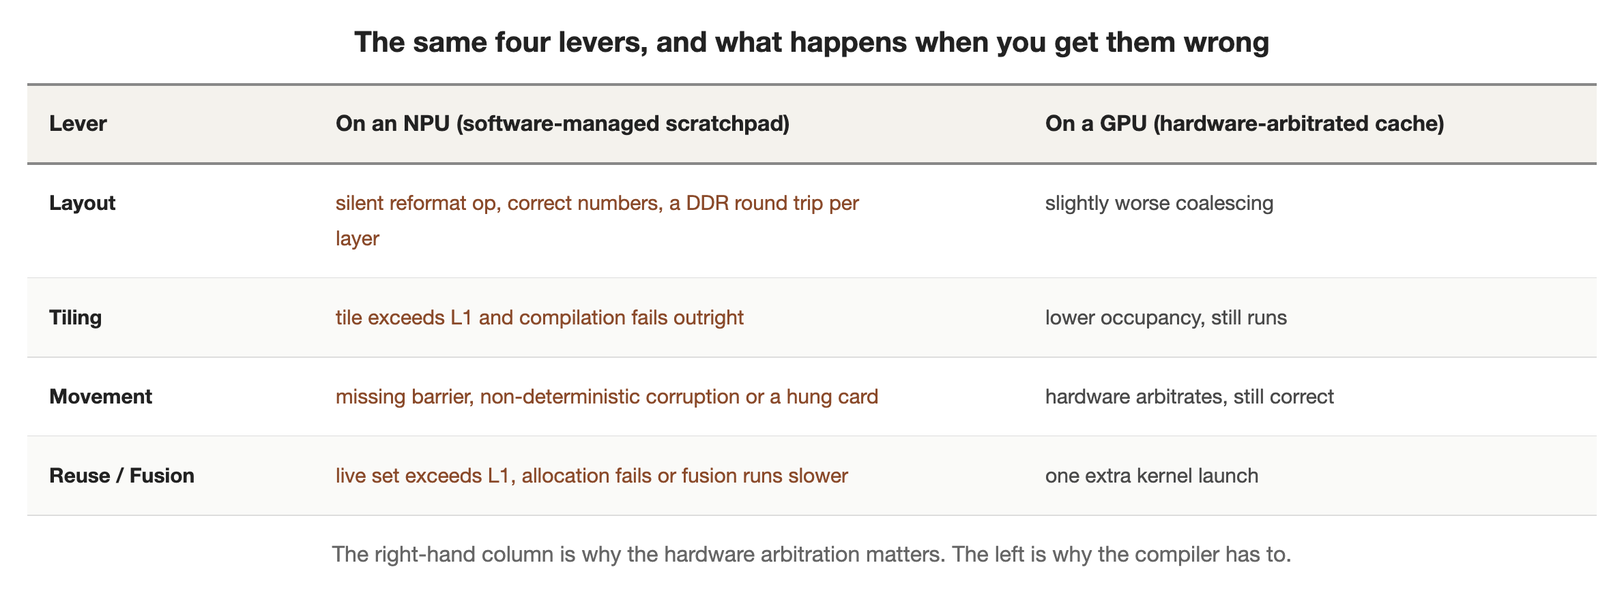
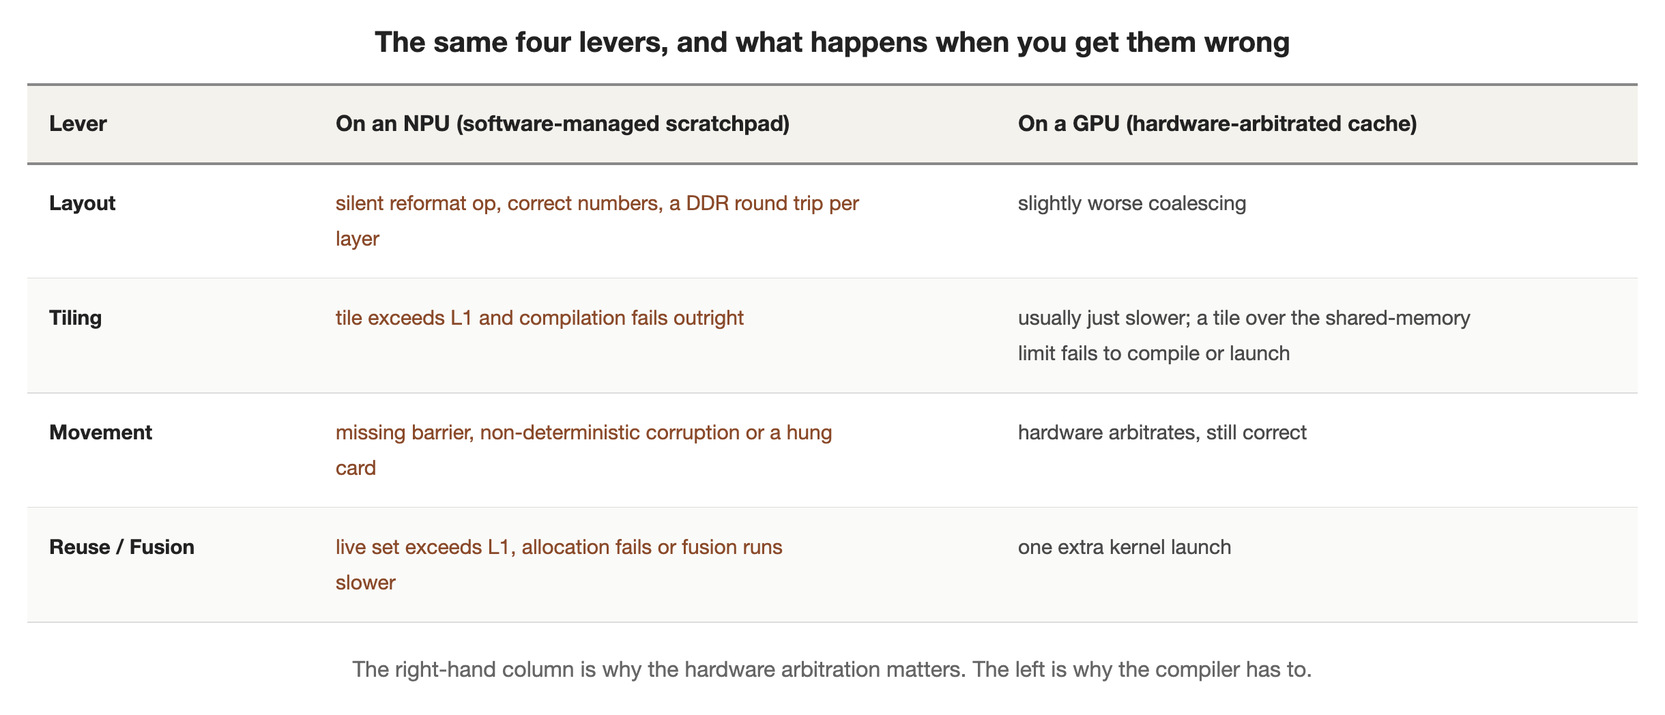
Fact-check pass: correct 22 borrowed numbers and vendor descriptions
An audit of every pre-existing claim found the article's own derivations intact
and its citations unreliable. The DaVinci Cube is a 16x16x16 engine, not a 16x16
array. The 640 pJ DRAM figure is a 32-bit access at 45 nm, not 64-bit. Ascend's
AIC and AIV are separate cores from 910B on, handing blocks through L2 rather
than a direct path. Recomputation is opt-in in PyTorch and Megatron, not on by
default. FlashAttention's fused traffic saving grows with block size rather than
falling as N/Bk. MTE pipe roles restored with FixPipe named as the cube's output
leg, and the Halide and TVM scheduling languages no longer described as
polyhedral.

diff --git a/_posts/2026-05-07-npu-compiler-memory-optimization.md b/_posts/2026-05-07-npu-compiler-memory-optimization.md
@@ -12,13 +12,13 @@ I've been building an NPU compiler stack lately, and this is my attempt to lay o
 
 *This is a translation of a piece originally published on Zhihu on May 7, 2026.*
 
-An NPU's hardware is far stricter about memory-access patterns than a CPU or GPU. The compute unit is a fixed-shape MAC array (16×16 or 128×128 are typical); the on-chip SRAM is a scratchpad, not a cache, so there is no hardware prefetch and no automatic replacement. Every data transfer has to be an explicit DMA instruction issued by the compiler, and on an NPU all of it has to be settled once, at compile time.
+An NPU's hardware is far stricter about memory-access patterns than a CPU or GPU. The compute unit is a fixed-shape MAC array (16×16 or 128×128 are typical); the on-chip SRAM is a scratchpad, not a cache, so there is no hardware prefetch and no automatic replacement. Every data transfer has to be an explicit DMA instruction issued by the compiler rather than inferred by hardware, and the schedule of those transfers is fixed before the kernel runs. At most its tile sizes and addresses are filled in at launch.
 
 The cost of data movement shows up on two axes at once.
 
 On the time axis: compute on modern accelerators keeps growing faster than bandwidth. Take an NVIDIA H100: about 1000 TFLOPS of FP16 compute against about 3 TB/s of HBM3 bandwidth. Work it through, and for every byte moved into the chip the hardware has to perform roughly 300 floating-point operations on it before the compute units stop idling. That ratio — arithmetic intensity, AI — is the basic metric for judging where an operator's bottleneck is. Most deep-learning operators have an AI far below 300; the time goes to waiting for data.
 
-On the energy axis: moving data costs far more than computing on it. On a mainstream process, reading a 64-bit word from DRAM is about 640 pJ, reading it from on-chip cache about 10 pJ, and an FP32 add about 0.4 pJ. A DRAM access costs more than 1000× the computation. Where an operator spends most of its energy is decided by its AI.
+On the energy axis: moving data costs far more than computing on it. On a 45 nm process, reading a 32-bit word from DRAM costs about 640 pJ, against roughly 10 pJ from an on-chip cache and 0.4 pJ for an FP32 add. The DRAM figure is Han et al.'s, and all of these are old numbers; modern LPDDR5 and HBM are several times cheaper per bit. What survives is the ratio, not the absolute values. A DRAM access costs more than 1000× the computation. Where an operator spends most of its energy is decided by its AI.
 
 Time and energy share one governing factor: the farther from the compute unit a bit has to travel, the longer it takes and the more it costs. All of an NPU compiler's memory-optimization work reduces to minimizing the time × energy product of data movement over the memory hierarchy the hardware gives you.
 
@@ -43,7 +43,7 @@ One example from each operator class.
 
 Shape (M, K) × (K, N) = (M, N); covers the QKV projections, the FFN, the embedding, and the MoE expert layers of a Transformer.
 
-The most basic layout choice is row-major versus column-major, corresponding to GEMM's NN / NT / TN / TT variants. What NPUs commonly do is pre-pack the matrices further into a block format. Take Ascend's FractalNZ: the weight matrix is cut into 16×16 blocks, stored row-wise inside each block, with the blocks arranged in a predefined two-dimensional order (zN or Nz). This arrangement means that when the Cube unit (a 16×16 MAC array) reads 16×16 values from L0B each cycle, it lands on exactly one contiguous physical block, and the address generator never has to stride.
+The most basic layout choice is row-major versus column-major, corresponding to GEMM's NN / NT / TN / TT variants. What NPUs commonly do is pre-pack the matrices further into a block format. Take Ascend's FractalNZ: the weight matrix is cut into 16×16 blocks, stored row-wise inside each block, with the blocks themselves walked column-major. That is what the name says: capital N across the blocks, lowercase z inside each one. FractalNZ is the form that sits in DDR and L1. L0B, the buffer holding the Cube's right-hand operand, holds a different member of the same family, FRACTAL_ZN, with the blocks walked the other way and transposed inside, and MTE1 re-packs one into the other on the way down from L1. Both are fractal, so when the Cube unit (a 16×16×16 engine, 4096 FP16 MACs per cycle) reads 16×16 values from L0B each cycle, it lands on exactly one contiguous physical block, and the address generator never has to stride.
 
 Weight packing is done at compile time; the model file at runtime already stores FractalNZ, and the DMA pours it straight into the scratchpad. Activations only get their sizes at runtime, so a compiler-inserted reformat operator has to pack them on the fly before each entry into the scratchpad.
 
@@ -51,7 +51,7 @@ Weight packing is done at compile time; the model file at runtime already stores
 
 Shape (N, C, H, W); covers vision models, the visual front end of diffusion models, and the image encoders of multimodal models.
 
-Consider a 16-lane MAC array that consumes the 16 channel values at one (h, w) position per cycle. With NHWC data, the 16 channels of pixel (h, w) are 16 contiguous elements; the MAC reads a contiguous run from one base address and has everything in one cycle. With NCHW, those 16 channels sit at 16 addresses spaced H×W elements apart: either 16 serial reads, cutting throughput to 1/16, or spreading across the SRAM's 16 banks — but a regular large stride usually lands every access in the same bank, and serialization is unavoidable.
+Consider a 16-lane MAC array that consumes the 16 channel values at one (h, w) position per cycle. With NHWC data, the 16 channels of pixel (h, w) are 16 contiguous elements; the MAC reads a contiguous run from one base address and has everything in one cycle. With NCHW, those 16 channels sit at 16 addresses spaced H×W elements apart: either 16 serial reads, cutting throughput to 1/16, or spreading across the SRAM's 16 banks. With plain low-order interleaving a stride of H×W words collapses onto 16/gcd(H·W, 16) banks: whenever H·W is a multiple of 16, as at 56×56 or 28×28, every access lands in the same bank and serializes 16 ways; at 14×14 it degrades to a 4-way conflict; at 7×7 the odd stride already spreads across all 16. The collapse is a property of the address mapping, not a law. Padding the plane pitch to an odd number of words, or XOR-swizzling the bank index, breaks it for the price of a little capacity or one more address-generation stage.
 
 ![The same tensor and the same MAC array. Only the byte order changed, and with it whether one cycle gets its sixteen values or sixteen.](/assets/images/posts/npu-compiler-memory-optimization/02-nhwc-vs-nchw.png)
 
@@ -76,7 +76,7 @@ An NPU's memory hierarchy typically runs: off-chip memory (GB), L1 (MB), L0A / L
 Tile size is set by four constraints together:
 
 1. **Capacity**: the tile's bytes must fit the target level. In GEMM, three tiles (A, B, C) coexist in scratchpad, so Bm·Bk + Bk·Bn + Bm·Bn ≤ L1 capacity.
-2. **Hardware granularity**: the tile's size along the MAC array's dimensions must be a multiple of the array edge. On a 16×16 Cube, the M, N, and K dimensions of a tile should all be multiples of 16.
+2. **Hardware granularity**: the tile's size along the MAC array's dimensions must be a multiple of the array edge. On a 16×16×16 Cube, the M, N, and K dimensions of a tile should all be multiples of 16.
 3. **DMA efficiency**: too small a tile makes DMA overhead exceed the transfer itself. Each DMA descriptor has tens to hundreds of cycles of issue latency, so a tile should move at least KB-scale data per DMA to amortize it.
 4. **Pipeline overlap**: the tile also has to work with double buffering; when L1 is split in half, the usable capacity halves, and tile size is squeezed further.
 
@@ -90,7 +90,7 @@ Again, one from each class.
 
 (M, K) × (K, N) → (M, N), with M = K = N = 4096, FP16, 96 MB of data in total. L1 is 1 MB, L0 is 64 KB.
 
-At the L1 level take (Bm, Bn, Bk) = (256, 256, 256); the three tiles use about 384 KB, leaving room for a double buffer. At L0 cut further to (16, 16, 16) to feed the Cube. The whole GEMM decomposes into (M/Bm) × (N/Bn) × (K/Bk) outer L1-tile iterations, each containing (Bm/16) × (Bn/16) × (Bk/16) Cube invocations.
+At the L1 level take (Bm, Bn, Bk) = (256, 256, 256); the three tiles use about 384 KB, leaving room for a double buffer. At L0 the tile shrinks to a base block sized against the 64 KB L0A and L0B, on the order of 128×256 FP16, or half that when the buffers are ping-ponged. The Cube then consumes it 16×16×16 at a time. The whole GEMM decomposes into (M/Bm) × (N/Bn) × (K/Bk) outer L1-tile iterations, each containing (Bm/16) × (Bn/16) × (Bk/16) Cube invocations.
 
 K is the reduction dimension and is handled differently from the parallel ones. Each K-tile's partial sum has to be accumulated. NPUs usually keep the accumulator in L0C and accumulate K-tiles there in place, writing the result out to L1 only once all accumulation is done. This is the Output Stationary idea (more on it in the reuse section) showing up in tiling: the innermost loop of the tile pins the output location and accumulates along K.
 
@@ -108,17 +108,17 @@ Take FlashAttention. The full attention matrix S = Q×K^T has shape (B, H, Sq, S
 
 FlashAttention cuts Sq into blocks of Bq (typically 64 or 128) and Sk into blocks of Bk (typically the same). Each (Bq, Bk) sub-block computes a partial attention independently: Q_block × K_block^T for a small block of scores, a local softmax, then multiply by V_block for a partial output. Softmax across blocks needs rescaling, so FlashAttention introduces the online-softmax algorithm to let the results from multiple K-tiles merge incrementally, without materializing the full S first.
 
-Landing this tiling on an NPU has extra requirements: Bq × D and Bk × D must fit in L1 together, with room for double buffering, and the softmax's running statistics (per-row max and sum) need their own accumulator space. Ascend and similar chips provide a dedicated vector-unit path for this, running softmax and accumulation in parallel with the Cube.
+Landing this tiling on an NPU has extra requirements. Four D-wide blocks are live at once: Q at Bq × D, K and V at Bk × D each, and the O accumulator at Bq × D. On top of them sits the Bq × Bk score tile, which at Bq = Bk = D = 128 is as big as the Q block and is usually kept in fp32. They need not all sit in the same buffer: on a typical NPU Q, K and V live in L1 while the scores accumulate in the matrix unit's output buffer and softmax runs in the vector core's working memory. Every one of them is scratchpad you allocate by hand, on top of double buffering and the softmax's running statistics (per-row max and sum). Ascend gives softmax its own hardware: matrix work runs on the AI Cube cores, softmax and rescaling on the separate AI Vector cores, and the two overlap. What it does not give you is a direct path between them. On 910A the cube and vector units inside one core had a direct channel; from 910B onward AIC and AIV are separate cores that hand blocks to each other through L2 and global memory. The pipelining is real, but you pay a cross-core handoff per block, and the design problem is sizing the block so that handoff stays hidden behind the Cube.
 
 ### The compiler's view
 
 Tile-size search is usually its own pass in an NPU compiler. Input: the compute graph with layouts already assigned, plus a hardware description (capacity per level, MAC size, DMA parameters). Output: the concrete tile shape for each operator at each level.
 
-There are two implementation styles. One is analytic solving on a cost model: list all the constraint equations, take compute × bandwidth utilization as the objective, and solve by integer programming or exhaustive search. That works on regular operators (GEMM, Conv), where the constraints have a closed form. The other is profile-driven autotuning: candidate tile sizes are timed on real hardware and iterated toward the optimum. TVM's auto-scheduler, Triton's autotune, and Huawei CANN's tiling search all belong here.
+There are two implementation styles. One is analytic solving on a cost model: list all the constraint equations, take compute × bandwidth utilization as the objective, and solve by integer programming or exhaustive search. That works on regular operators (GEMM, Conv), where the constraints have a closed form. The other is profile-driven autotuning: candidate tile sizes are timed on real hardware and iterated toward the optimum. TVM's auto-scheduler, Triton's `@triton.autotune`, and Huawei CANN's AOE tuner all belong here, though how much search each does differs sharply: Ansor runs evolutionary search over a learned cost model that every measured batch retrains, while `@triton.autotune` times a config list you wrote by hand, once per new key shape, and caches the winner.
 
 Tiling fails loudly, and only because somebody wrote the check. Upstream mostly has not. `linalg::promoteSubViews`, the pass that stages a tile into a named memory space, ends its precondition list with `// TODO: Check that the total footprint fits within a given size.` The affine copy generator does carry a budget, and it is instructive about what carrying one gets you: when the buffers exceed `fastMemCapacityBytes` it calls `emitWarning`, returns success, and emits the overflowing code anyway. On a cache that is survivable. On a scratchpad there is no backstop underneath it, so the check that matters is the one you write yourself.
 
-On a GPU, a wrong tile choice usually shows up as lower performance; the run still completes. On an NPU, a tile exceeding L1 capacity fails compilation outright, and a tile violating the MAC divisibility constraint means the Cube won't start. Tiling, like layout, is the textbook case of something going from optimization to precondition.
+On a GPU, most wrong tile choices only cost performance: registers spill to local memory, a tile too big for L1 just pulls more traffic from L2 and HBM, and the run still finishes. Shared memory is the exception. Nothing backstops it, so a tile that overflows the per-block limit is rejected by ptxas or fails at launch. That exception is the point: on an NPU the on-chip buffers are software-managed all the way down, so what is one special case on the GPU is the rule at every level. On an NPU, a tile exceeding L1 capacity fails compilation outright, and a tile violating the MAC divisibility constraint means the Cube won't start. Tiling, like layout, is the textbook case of something going from optimization to precondition.
 
 ## 3. Movement
 
@@ -150,13 +150,13 @@ Software pipelining on an NPU isn't implicit. On CPUs and GPUs the compiler lean
 
 ### Multiple DMA engines in parallel
 
-NPUs usually have several independent DMA paths, each dedicated to a different leg of the route. On Ascend these are the MTE (Memory Transfer Engine) pipes, split by direction: one brings data from off-chip memory into the on-chip buffers, another stages it from L1 down into the L0 operand buffers, and another writes results back out. The engines are physically independent and can work simultaneously.
+NPUs usually have several independent DMA paths, each dedicated to a different leg of the route. On Ascend these are the MTE (Memory Transfer Engine) pipes, split by direction: MTE2 brings data from off-chip memory into the on-chip buffers, MTE1 stages it from L1 down into the L0 operand buffers, and MTE3 writes vector results back out to memory. The cube's own output leg is not an MTE. FixPipe drains the L0C accumulator to L1 or GM, converting dtype and format on the way. The engines are physically independent and can work simultaneously.
 
 That hardware structure makes multi-level pipelining possible. While one tile sits in L0 being consumed by the Cube, the next tile moves from L1 into L0, the one after that moves from off-chip memory into L1, and the previous round's output drains out of the accumulator. Each leg is a different engine, so none of them waits on another.
 
 ![Four tiles in flight at once, each on its own engine. The compiler has to emit one instruction stream per engine and every barrier between them.](/assets/images/posts/npu-compiler-memory-optimization/06-mte-pipeline.png) Every segment of the pipeline has its own transfer hardware; none blocks another.
 
-The price is that the compiler has to generate a separate instruction stream for each engine and make sure the cross-engine dependencies are expressed correctly through synchronization primitives. In Ascend's ISA, MTE instructions and Cube instructions belong to different pipes, and pipes synchronize through barriers.
+The price is that the compiler has to generate a separate instruction stream for each engine and make sure the cross-engine dependencies are expressed correctly through synchronization primitives. In Ascend's ISA, MTE instructions and Cube instructions are issued to separate instruction queues, so the dependency between them has to be stated explicitly. `PipeBarrier<pipe>` only orders a queue against itself. Crossing from MTE1 to Cube means either a matched `SetFlag`/`WaitFlag` pair on the same hard event (`HardEvent::MTE1_M`, identical template parameter and identical event ID on both sides), or the blunt `PipeBarrier<PIPE_ALL>`, which drains every pipe and throws away the overlap you were buying. Most operator code never writes either by hand, since `TQue`'s `EnQue`/`DeQue` lowers to the same hard events, but get it wrong and the Cube array starts multiplying a half-written L0 buffer.
 
 ### Asynchronous DMA and prefetch
 
@@ -172,13 +172,13 @@ Movement isn't an independent optimization layer; its feasibility is entirely de
 - Four-stage software pipelining needs four copies: the budget drops to a quarter.
 - The deeper the pipeline, the higher the hardware concurrency, but the tighter the limit on tile size. Too small a tile and the DMA issue overhead exceeds the transfer, and the pipeline can't hide it either.
 
-There's an optimal band for tile size: too small and DMA issue overhead dominates; too large and the pipeline is too shallow to use the hardware's concurrency. The band is usually between KB and tens of KB, set jointly by DMA issue latency, bandwidth, and compute density.
+There's an optimal band for tile size: too small and DMA issue overhead dominates; too large and the pipeline is too shallow to use the hardware's concurrency. The band depends on which level the tile lands in. A tile staged into L0 or registers runs from KB to tens of KB; an L1 tile, like the 128 KB operands of the GEMM example above, runs to hundreds of KB. Either way the bounds are set jointly by DMA issue latency, bandwidth, compute density, and how many buffer copies the pipeline depth demands.
 
 ### The compiler's view
 
 In an NPU compiler, movement optimization shows up as instruction scheduling. Input: the operator compute graph with layout and tiling done. Output: an instruction sequence with pipe assignments and sync instructions.
 
-The scheduling algorithm is typically list scheduling or modulo scheduling. The former greedily schedules instructions one by one in dependency order — simple, not necessarily optimal. The latter targets loop structures, unrolling the loop into software-pipelined form and solving for the minimum initiation interval (II); on regular operators it can approach the hardware's concurrency ceiling.
+The scheduling algorithm is typically list scheduling or modulo scheduling. The former greedily schedules instructions one by one in dependency order — simple, not necessarily optimal. The latter targets loop structures: it overlaps successive iterations by starting a new one every II cycles, leaving a prologue, a steady-state kernel, and an epilogue, and it searches for the smallest feasible initiation interval (II), starting from the lower bound max(ResMII, RecMII) and raising it until a schedule fits. On regular operators it can approach the hardware's concurrency ceiling.
 
 Get movement wrong and nothing tells you either. One missing barrier between a transfer pipe and the compute pipe hands the array a half-written buffer: wrong numbers, non-deterministically, passing at test shapes and failing at production ones. A lost wakeup hangs the card instead. Upstream supplies more mechanism here than its reputation suggests. `transform.loop.pipeline` ships a target-independent modulo scheduler that assigns cycles by dependence and wraps them modulo the II, and it composes with `memref::multiBuffer` for the buffer expansion. What it does not ship is a latency model. The long latency is attached to vector transfers, a copy op is invisible to it, and `memref.dma_start` is created by the affine lowering and consumed by nothing downstream. The skew is free. Every cycle count and every wait is yours.
 
@@ -188,7 +188,7 @@ A GPU compiler leans on hardware out-of-order execution to hide most scheduling 
 
 Everything so far has been about moving data faster. Reuse is the other direction: how much work can one byte do once it's on-chip?
 
-The metric is arithmetic intensity (AI), defined as the operator's total floating-point operations divided by the bytes read from the next level up. As noted at the start, the H100's roofline knee is around 300; an operator with an AI below that is bandwidth-bound, and only above it can the compute units saturate. The numbers differ on an NPU; the structure is the same.
+The metric is arithmetic intensity (AI), defined as the operator's total floating-point operations divided by the bytes it moves to and from the next level up, reads and writes both. As noted at the start, the H100's roofline knee is around 300; an operator with an AI below that is bandwidth-bound, and only above it can the compute units saturate. The numbers differ on an NPU; the structure is the same.
 
 There are three basic ways to raise AI: operator fusion so intermediates never touch DDR, loop reordering so data is reused across the innermost loop, and recomputation to trade compute for memory.
 
@@ -209,7 +209,7 @@ Fusion boundaries are set by analysis of the compute graph. Typical fusible patt
 
 Typically not fusible: a shape change between operators (a reshape crossing the reduction dimension), a control-flow fork (the output consumed by several downstream operators at different times), or a device boundary (the tensor sharded across multiple NPUs).
 
-FlashAttention is the landmark example of fusion. Plain attention consists of Q×K^T, scale, softmax, and ×V; the naive implementation writes out the full intermediate S from Q×K^T (128 MB at 8K×8K, as computed in the previous section) and reads it back. FlashAttention fuses the whole sequence inside the tile loop: each (Bq, Bk) sub-block's partial score is softmax-localized as soon as it's computed, multiplied by V, and accumulated into the output — S never materializes. AI rises by more than an order of magnitude, and DDR traffic falls by a factor of N/Bk.
+FlashAttention is the landmark example of fusion. Plain attention consists of Q×K^T, scale, softmax, and ×V; the naive implementation writes out the full intermediate S from Q×K^T (128 MB at 8K×8K, as computed in the previous section) and reads it back. FlashAttention fuses the whole sequence inside the tile loop: each (Bq, Bk) sub-block's partial score is softmax-localized as soon as it's computed, multiplied by V, and accumulated into the output — S never materializes. AI rises by more than an order of magnitude, and the Sq × Sk round trip of the S matrix disappears entirely. What remains is the traffic of Q, K, V and O, each of them Sq × D or Sk × D, multiplied by the number of passes the tiling forces over K and V. Larger Bq and Bk mean fewer passes and less traffic: the saving grows with block size, not with 1/Bk.
 
 ### Loop reordering
 
@@ -231,9 +231,9 @@ Recomputation (also called gradient checkpointing) is the reverse move: don't sa
 
 Backpropagation in training needs the forward pass's intermediate activations to compute gradients. A standard 7B Transformer at sequence length 4096 and batch 1 has activations totaling on the order of ten GB; longer sequences or bigger batches quickly exceed a single card's memory. Saving everything means enormous volumes of data read and written repeatedly on HBM.
 
-Recomputation saves only the activation at each layer's entry, and on the backward pass re-runs the forward from that entry to regenerate the intermediates. The cost is doing the forward twice (once forward, once again during backward); the gain is activation memory down by one to two orders of magnitude.
+Full recomputation saves only the activation at the entry of each checkpointed segment, usually one layer, and on the backward pass re-runs the forward from that entry to regenerate the intermediates. The cost is doing the forward twice (once forward, once again during backward); the gain is activation memory down by one to two orders of magnitude. Selective schemes trade part of that saving back for speed: Megatron keeps most of a layer's activations and recomputes only the core attention operations (QK^T, softmax, softmax dropout, attention over V), which are memory-heavy but cheap to redo, about 2.7% extra FLOPs against the 30% to 40% runtime overhead of full recomputation.
 
-Recomputation looks like the opposite of raising reuse, but it's the other pole of the same trade-off: when the cost of storage (moving data plus occupying capacity) exceeds the compute cost of regenerating it, discarding and recomputing is cheaper in total. In LLM training, where activations are enormous, almost every modern framework (PyTorch's checkpoint, Megatron's selective recomputation) has recomputation on by default.
+Recomputation looks like the opposite of raising reuse, but it's the other pole of the same trade-off: when the cost of storage (moving data plus occupying capacity) exceeds the compute cost of regenerating it, discarding and recomputing is cheaper in total. In LLM training, where activations are enormous, recomputation is a first-class option in every major framework: PyTorch's `torch.utils.checkpoint`, Megatron's `--recompute-activations` for the selective form and `--recompute-granularity full` for whole layers. None of them is on by default. You opt in, and large-model configs usually do. The recomputation that really is on by default sits a layer lower: torch.compile's min-cut partitioner re-derives cheap pointwise ops in the backward pass instead of saving them, and FlashAttention recomputes the attention matrix inside its backward kernel.
 
 ### Coupling with layout and tiling
 
@@ -249,11 +249,11 @@ Recomputation's relationship with tiling shows up in re-doing tiles on the backw
 
 Reuse optimization is done by two kinds of passes in an NPU compiler.
 
-The first is graph-level operator fusion. The compiler recognizes fusible patterns in the operator graph (element-wise chains, GEMM + epilogue, reduction + scale), merges several operators into a fused op, and the back end generates a single kernel for it. TVM's FuseOps, MLIR's linalg fusion, and Huawei CANN's fusion engine are all of this kind.
+The first is graph-level operator fusion. The compiler recognizes fusible patterns in the operator graph (element-wise chains, GEMM + epilogue, reduction + scale), merges several operators into a fused op, and the back end generates a single kernel for it. TVM's FuseOps and Huawei CANN's fusion engine are of this kind: FuseOps partitions a Relay dataflow DAG with a post-dominator tree, and CANN does graph fusion plus UB fusion during graph compilation. MLIR only half belongs here. `linalg-fuse-elementwise-ops` does merge ops at this level, composing an all-parallel `linalg.generic` producer into its consumer, but a producer that carries a reduction loop, a GEMM ahead of its epilogue or a reduction ahead of an element-wise op, is out of its scope. Those go through tile-and-fuse instead, which is the loop-level category below.
 
 Over-fusion is the failure with negative value. The fused chain's live set stops fitting L1, so either allocation fails outright or the compiler inserts reshuffles that cost more than the DDR round trip fusion was supposed to save. Nothing upstream stops you: the elementwise fusion pass's entire profitability policy is `producer->hasOneUse()`. The tile-and-fuse hook is better informed, since it sees the `tensor.extract_slice` and could compute a footprint from it, but the shipped default accepts every candidate. The passes that decide fusion have no model of a transfer at all, so the decision cannot see the byte budget it is spending.
 
-The second is loop-level schedule transformation. When generating the concrete kernel, the compiler reorders (interchange), merges (fuse), and blocks (tile — sharing the underlying mechanism with section 2) the operator's loop nest to produce the instruction sequence with the best stationarity. Polyhedral compilation is the theoretical foundation; TVM's schedule, Halide's schedule, and MLIR's affine dialect are all built on the polyhedral model.
+The second is loop-level schedule transformation. When generating the concrete kernel, the compiler reorders (interchange), merges (fuse), and blocks (tile — sharing the underlying mechanism with section 2) the operator's loop nest to produce the instruction sequence with the best stationarity. These systems do not share one theory. Halide, and the TVM schedule that descends from it, expose a scheduling language and infer bounds by interval analysis rather than through a polyhedral representation. MLIR's affine dialect borrows polyhedral techniques for dependence analysis, but its own rationale names MLIR's ability to represent arbitrary control flow as a key distinction from polyhedral implementations like Polly. From the outside the transformations look identical. What differs is how much each system can prove about them.
 
 A GPU compiler does both kinds of pass too, but on a GPU reuse optimization is more of a performance amplifier: skip fusion and it runs slowly, but it runs. On an NPU, fusion is often the precondition for running at all — an unfused kernel can fail compilation because an intermediate tensor exceeds L1 capacity. It's the same optimization-to-precondition phenomenon we saw with tiling and movement.
 
@@ -262,7 +262,7 @@ Read the four failures in order and they escalate: a silent performance tax, a c
 | Lever | On an NPU (software-managed scratchpad) | On a GPU (hardware-arbitrated cache) |
 | --- | --- | --- |
 | Layout | silent reformat op, correct numbers, a DDR round trip per layer | slightly worse coalescing |
-| Tiling | tile exceeds L1 and compilation fails outright | lower occupancy, still runs |
+| Tiling | tile exceeds L1 and compilation fails outright | usually just slower (spills, extra L2/HBM traffic), except a tile over the shared-memory limit, which fails to compile or launch |
 | Movement | missing barrier, non-deterministic corruption or a hung card | hardware arbitrates, still correct |
 | Reuse / Fusion | live set exceeds L1, allocation fails or fusion runs slower | one extra kernel launch |
  That ordering is not a coincidence, and neither is where upstream MLIR stops helping. Above bufferization it is genuinely strong; `linalg.pack` states what a MAC-port layout is, the tiling drivers cut and fuse an iteration space, and none of it is worth rewriting. Below bufferization, where the scratchpad and the explicit transfer and the byte budget actually live, coverage thins to plumbing. The generic DMA op carries one stride level and no consumer; the multi-dimensional descriptor types that exist are vendor-scoped, in NVGPU and AMDGPU, templates to copy rather than infrastructure to reuse. That line is not a maturity gap. It marks where hardware stops arbitrating. A GPU compiler can hand the memory system its problem and be right often enough. An NPU compiler cannot, so everything below the line got built by whoever needed it, one target at a time.
